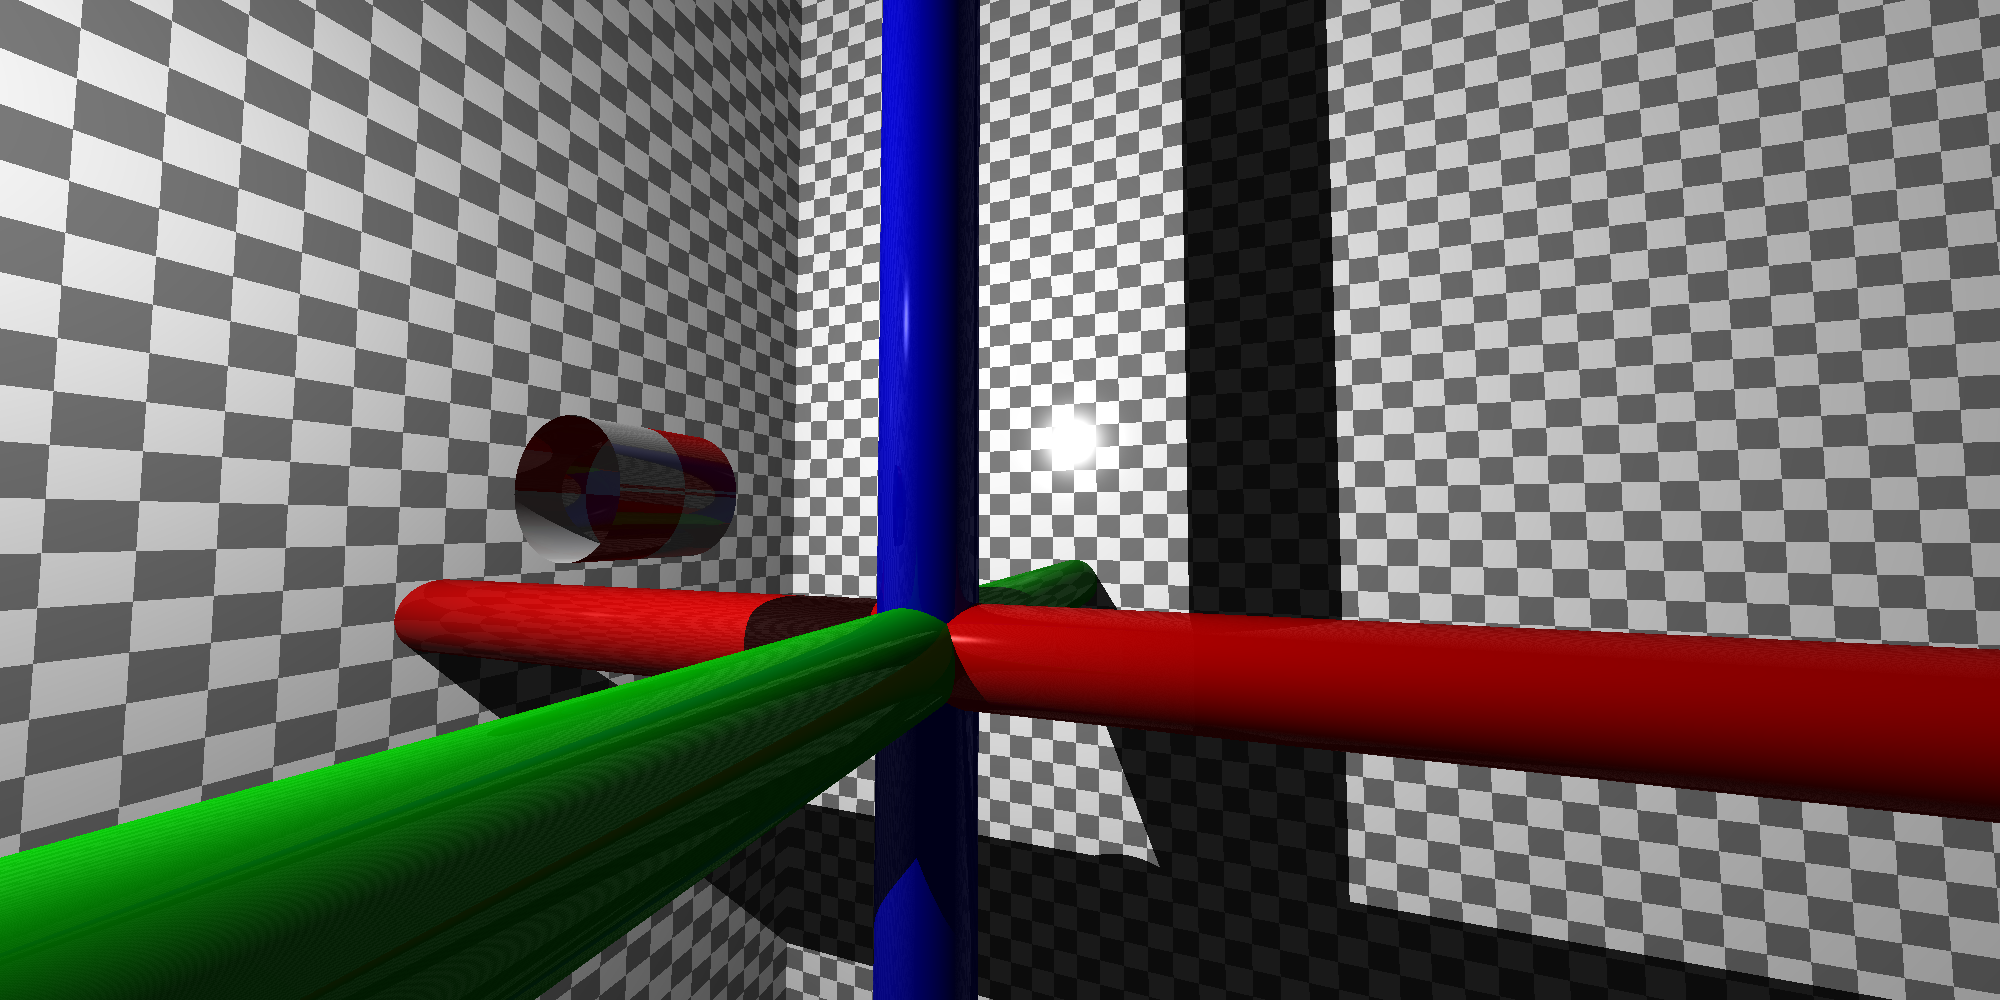
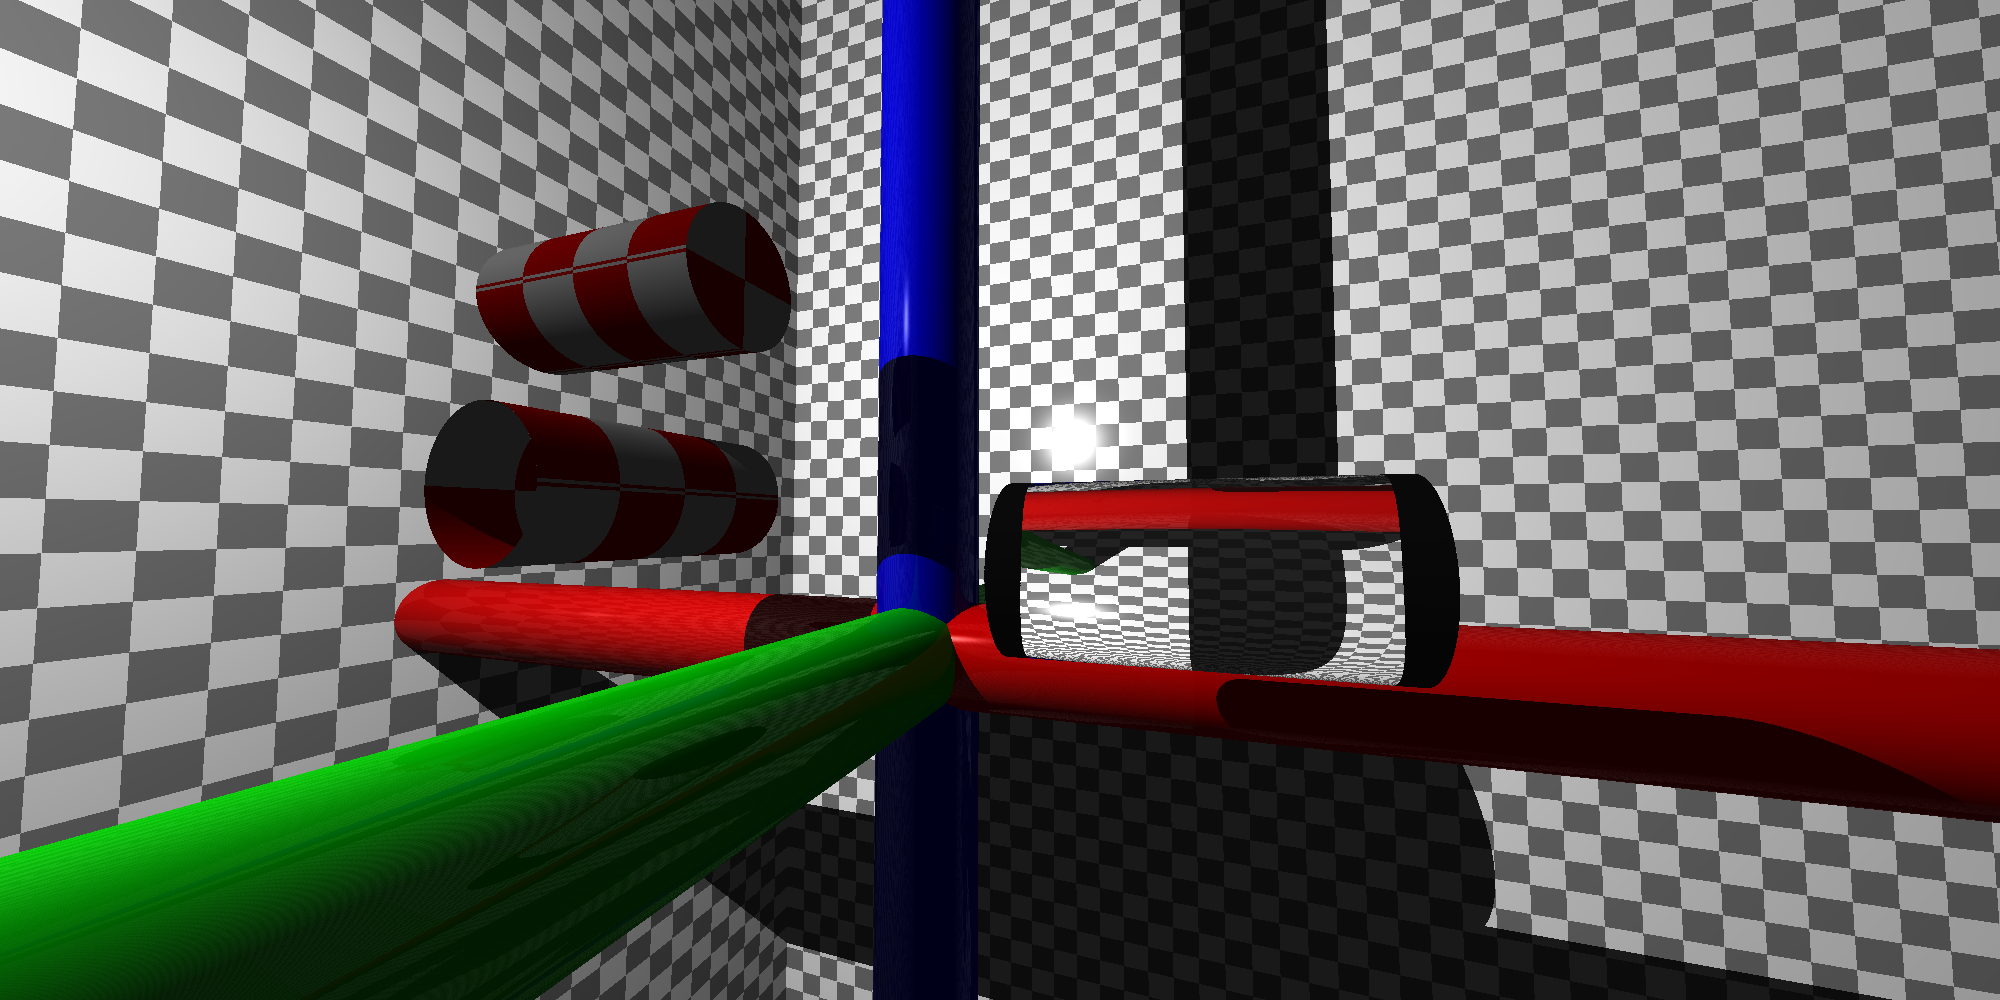
(Chapter 13) Closed cylinders

diff --git a/src/rtc/shapes/cylinder.rs b/src/rtc/shapes/cylinder.rs
@@ -1,7 +1,7 @@
 // --------------------------------------------------------------------------------------------- //
 
 use crate::{
-    float::ApproxEq,
+    float::{ApproxEq, EPSILON},
     primitive::{Point, Tuple, Vector},
     rtc::Ray,
 };
@@ -12,6 +12,7 @@ use crate::{
 pub struct Cylinder {
     min: f64,
     max: f64,
+    closed: bool,
 }
 
 // --------------------------------------------------------------------------------------------- //
@@ -23,10 +24,10 @@ impl Cylinder {
         }
     }
 
-    pub fn new_truncated(min: f64, max: f64) -> Self {
+    pub fn new_truncated(min: f64, max: f64, closed: bool) -> Self {
         let (min, max) = if min < max { (min, max) } else { (max, min) };
 
-        Cylinder { min, max }
+        Cylinder { min, max, closed }
     }
 
     pub fn intersects<F>(&self, ray: &Ray, mut push: F)
@@ -36,37 +37,73 @@ impl Cylinder {
         let a = ray.direction.x().powi(2) + ray.direction.z().powi(2);
 
         if a.approx_eq(0.0) {
+            self.intersects_caps(&ray, push);
+        } else {
+            let b = 2.0 * (ray.origin.x() * ray.direction.x() + ray.origin.z() * ray.direction.z());
+            let c = ray.origin.x().powi(2) + ray.origin.z().powi(2) - 1.0;
+
+            let discriminant = b.powi(2) - 4.0 * a * c;
+
+            if discriminant < 0.0 {
+                return;
+            }
+
+            let double_a = 2.0 * a;
+            let t0 = (-b - discriminant.sqrt()) / double_a;
+            let t1 = (-b + discriminant.sqrt()) / double_a;
+
+            let (t0, t1) = if t0 < t1 { (t0, t1) } else { (t1, t0) };
+
+            let y0 = ray.origin.y() + t0 * ray.direction.y();
+            if self.min < y0 && y0 < self.max {
+                push(t0);
+            }
+
+            let y1 = ray.origin.y() + t1 * ray.direction.y();
+            if self.min < y1 && y1 < self.max {
+                push(t1);
+            }
+
+            self.intersects_caps(&ray, push);
+        }
+    }
+
+    fn check_cap(ray: &Ray, t: f64) -> bool {
+        let x = ray.origin.x() + t * ray.direction.x();
+        let z = ray.origin.z() + t * ray.direction.z();
+
+        (x.powi(2) + z.powi(2)) <= 1.0
+    }
+
+    fn intersects_caps<F>(&self, ray: &Ray, mut push: F)
+    where
+        F: FnMut(f64),
+    {
+        if !self.closed || ray.direction.y().approx_eq(0.0) {
             return;
         }
 
-        let b = 2.0 * (ray.origin.x() * ray.direction.x() + ray.origin.z() * ray.direction.z());
-        let c = ray.origin.x().powi(2) + ray.origin.z().powi(2) - 1.0;
-
-        let discriminant = b.powi(2) - 4.0 * a * c;
-
-        if discriminant < 0.0 {
-            return;
+        let t = (self.min - ray.origin.y()) / ray.direction.y();
+        if Self::check_cap(&ray, t) {
+            push(t);
         }
 
-        let double_a = 2.0 * a;
-        let t0 = (-b - discriminant.sqrt()) / double_a;
-        let t1 = (-b + discriminant.sqrt()) / double_a;
-
-        let (t0, t1) = if t0 < t1 { (t0, t1) } else { (t1, t0) };
-
-        let y0 = ray.origin.y() + t0 * ray.direction.y();
-        if self.min < y0 && y0 < self.max {
-            push(t0);
-        }
-
-        let y1 = ray.origin.y() + t1 * ray.direction.y();
-        if self.min < y1 && y1 < self.max {
-            push(t1);
+        let t = (self.max - ray.origin.y()) / ray.direction.y();
+        if Self::check_cap(&ray, t) {
+            push(t);
         }
     }
 
     pub fn normal_at(&self, object_point: &Point) -> Vector {
-        Vector::new(object_point.x(), 0.0, object_point.z())
+        let dist = object_point.x().powi(2) + object_point.z().powi(2);
+
+        if dist < 1.0 && object_point.y() >= (self.max - EPSILON) {
+            Vector::new(0.0, 1.0, 0.0)
+        } else if dist < 1.0 && object_point.y() <= (self.min + EPSILON) {
+            Vector::new(0.0, -1.0, 0.0)
+        } else {
+            Vector::new(object_point.x(), 0.0, object_point.z())
+        }
     }
 }
 
@@ -77,6 +114,7 @@ impl Default for Cylinder {
         Cylinder {
             min: f64::NEG_INFINITY,
             max: f64::INFINITY,
+            closed: false,
         }
     }
 }
@@ -88,10 +126,11 @@ pub mod tests {
     use super::*;
 
     #[test]
-    fn the_default_min_and_max_for_a_cylinder() {
+    fn the_default_values_for_a_cylinder() {
         let c = Cylinder::new();
         assert_eq!(c.min, f64::NEG_INFINITY);
         assert_eq!(c.max, f64::INFINITY);
+        assert_eq!(c.closed, false);
     }
 
     #[test]
@@ -142,7 +181,31 @@ pub mod tests {
             (Point::new(0.0, 1.5, -2.0), Vector::new(0.0, 0.0, 1.0), 2),
         ];
 
-        let c = Cylinder::new_truncated(1.0, 2.0);
+        let c = Cylinder::new_truncated(1.0, 2.0, false);
+        for (origin, direction, count) in tests.into_iter() {
+            let mut xs = vec![];
+            c.intersects(
+                &Ray {
+                    origin,
+                    direction: direction.normalize(),
+                },
+                |t| xs.push(t),
+            );
+            assert_eq!(xs.len(), count as usize);
+        }
+    }
+
+    #[test]
+    fn intersecting_the_caps_of_a_closed_cylinder() {
+        let tests = vec![
+            (Point::new(0.0, 3.0, 0.0), Vector::new(0.0, -1.0, 0.0), 2),
+            (Point::new(0.0, 3.0, -2.0), Vector::new(0.0, -1.0, 2.0), 2),
+            (Point::new(0.0, 4.0, -2.0), Vector::new(0.0, -1.0, 1.0), 2),
+            (Point::new(0.0, 0.0, -2.0), Vector::new(0.0, 1.0, 2.0), 2),
+            (Point::new(0.0, -1.0, -2.0), Vector::new(0.0, 1.0, 1.0), 2),
+        ];
+
+        let c = Cylinder::new_truncated(1.0, 2.0, true);
         for (origin, direction, count) in tests.into_iter() {
             let mut xs = vec![];
             c.intersects(
@@ -192,6 +255,23 @@ pub mod tests {
             c.normal_at(&Point::new(-1.0, 1.0, 0.0)),
             Vector::new(-1.0, 0.0, 0.0)
         );
+    }
+
+    #[test]
+    fn the_normal_vector_on_a_cylinder_s_end_caps() {
+        let tests = vec![
+            (Point::new(0.0, 1.0, 0.0), Vector::new(0.0, -1.0, 0.0)),
+            (Point::new(0.5, 1.0, 0.0), Vector::new(0.0, -1.0, 0.0)),
+            (Point::new(0.0, 1.0, 0.5), Vector::new(0.0, -1.0, 0.0)),
+            (Point::new(0.0, 2.0, 0.0), Vector::new(0.0, 1.0, 0.0)),
+            (Point::new(0.5, 2.0, 0.0), Vector::new(0.0, 1.0, 0.0)),
+            (Point::new(0.0, 2.0, 0.5), Vector::new(0.0, 1.0, 0.0)),
+        ];
+
+        let c = Cylinder::new_truncated(1.0, 2.0, true);
+        for (point, normal) in tests.into_iter() {
+            assert_eq!(c.normal_at(&point), normal);
+        }
     }
 }
 

diff --git a/src/scenes/ch13_cylinder.rs b/src/scenes/ch13_cylinder.rs
@@ -77,16 +77,44 @@ pub fn make_scene() -> Rc<Scene> {
     );
 
     let shallow_cylinder = Arc::new(
-        Object::new_truncated_cylinder(-1.0, 1.0)
+        Object::new_cylinder_truncated(-2.0, 2.0, false)
             .with_material(
                 Material::new()
                     .with_pattern(Pattern::new_checker(Color::white(), Color::red()))
-                    .with_diffuse(0.7)
-                    .with_specular(0.5)
-                    .with_reflective(0.1),
+                    .with_diffuse(0.3)
+                    .with_specular(0.2)
+                    .with_reflective(0.00),
             )
             .translate(-3.0, 3.0, -4.0)
             .rotate_x(PI / 2.0),
+    );
+
+    let cylinder = Arc::new(
+        Object::new_cylinder_truncated(-2.0, 2.0, true)
+            .with_material(
+                Material::new()
+                    .with_pattern(Pattern::new_checker(Color::white(), Color::red()))
+                    .with_diffuse(0.3)
+                    .with_specular(0.2)
+                    .with_reflective(0.00),
+            )
+            .translate(-3.0, 6.0, -4.0)
+            .rotate_z(PI / 2.0),
+    );
+
+    let refractive_cylinder = Arc::new(
+        Object::new_cylinder_truncated(-2.0, 2.0, true)
+            .with_material(
+                Material::new()
+                    .with_color(Color::new(0.1, 0.1, 0.1))
+                    .with_diffuse(0.3)
+                    .with_specular(0.2)
+                    .with_reflective(0.00)
+                    .with_transparency(1.0)
+                    .with_refractive_index(1.5),
+            )
+            .translate(5.0, 2.0, -4.0)
+            .rotate_z(PI / 2.0),
     );
 
     let light = Light {
@@ -102,6 +130,8 @@ pub fn make_scene() -> Rc<Scene> {
             cylinder_y,
             cylinder_z,
             shallow_cylinder,
+            cylinder,
+            refractive_cylinder,
         ])
         .with_lights(vec![light])
         .with_recursion_limit(5);

diff --git a/src/rtc/object.rs b/src/rtc/object.rs
@@ -33,9 +33,9 @@ impl Object {
         }
     }
 
-    pub fn new_truncated_cylinder(min: f64, max: f64) -> Self {
+    pub fn new_cylinder_truncated(min: f64, max: f64, closed: bool) -> Self {
         Object {
-            shape: Shape::Cylinder(Cylinder::new_truncated(min, max)),
+            shape: Shape::Cylinder(Cylinder::new_truncated(min, max, closed)),
             ..Default::default()
         }
     }
